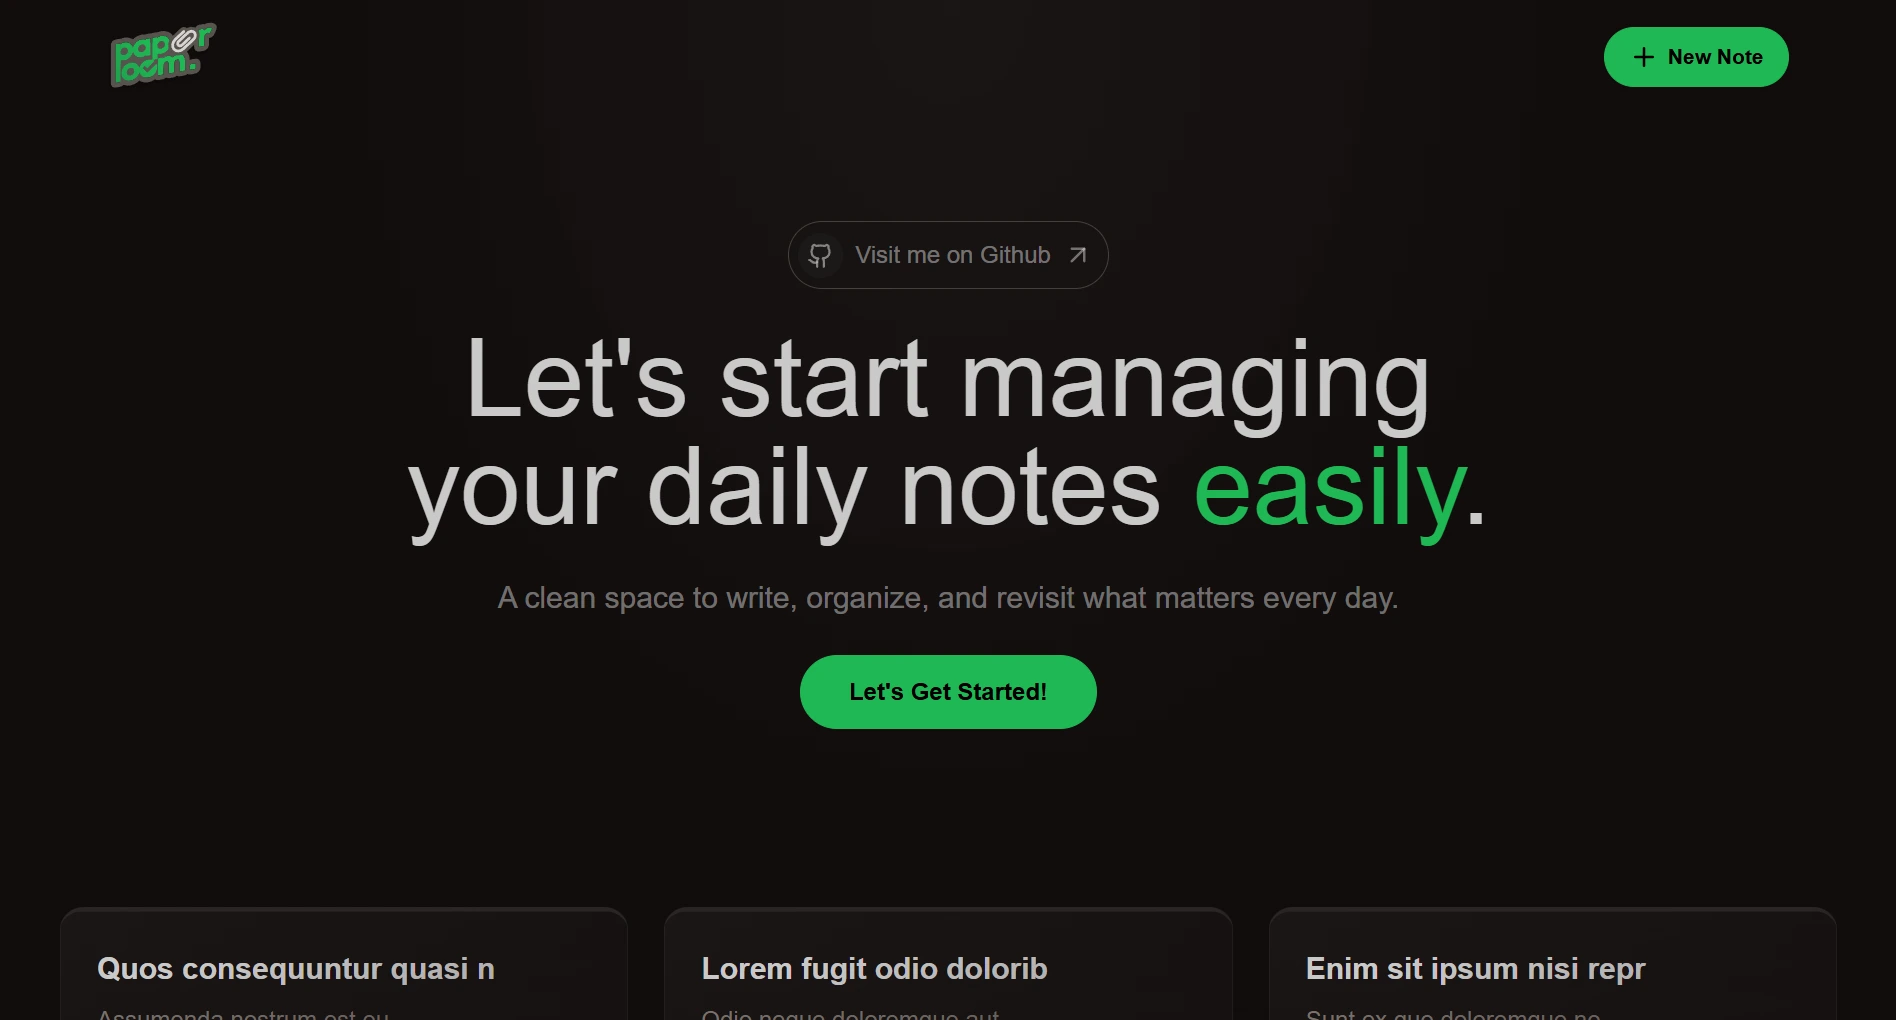
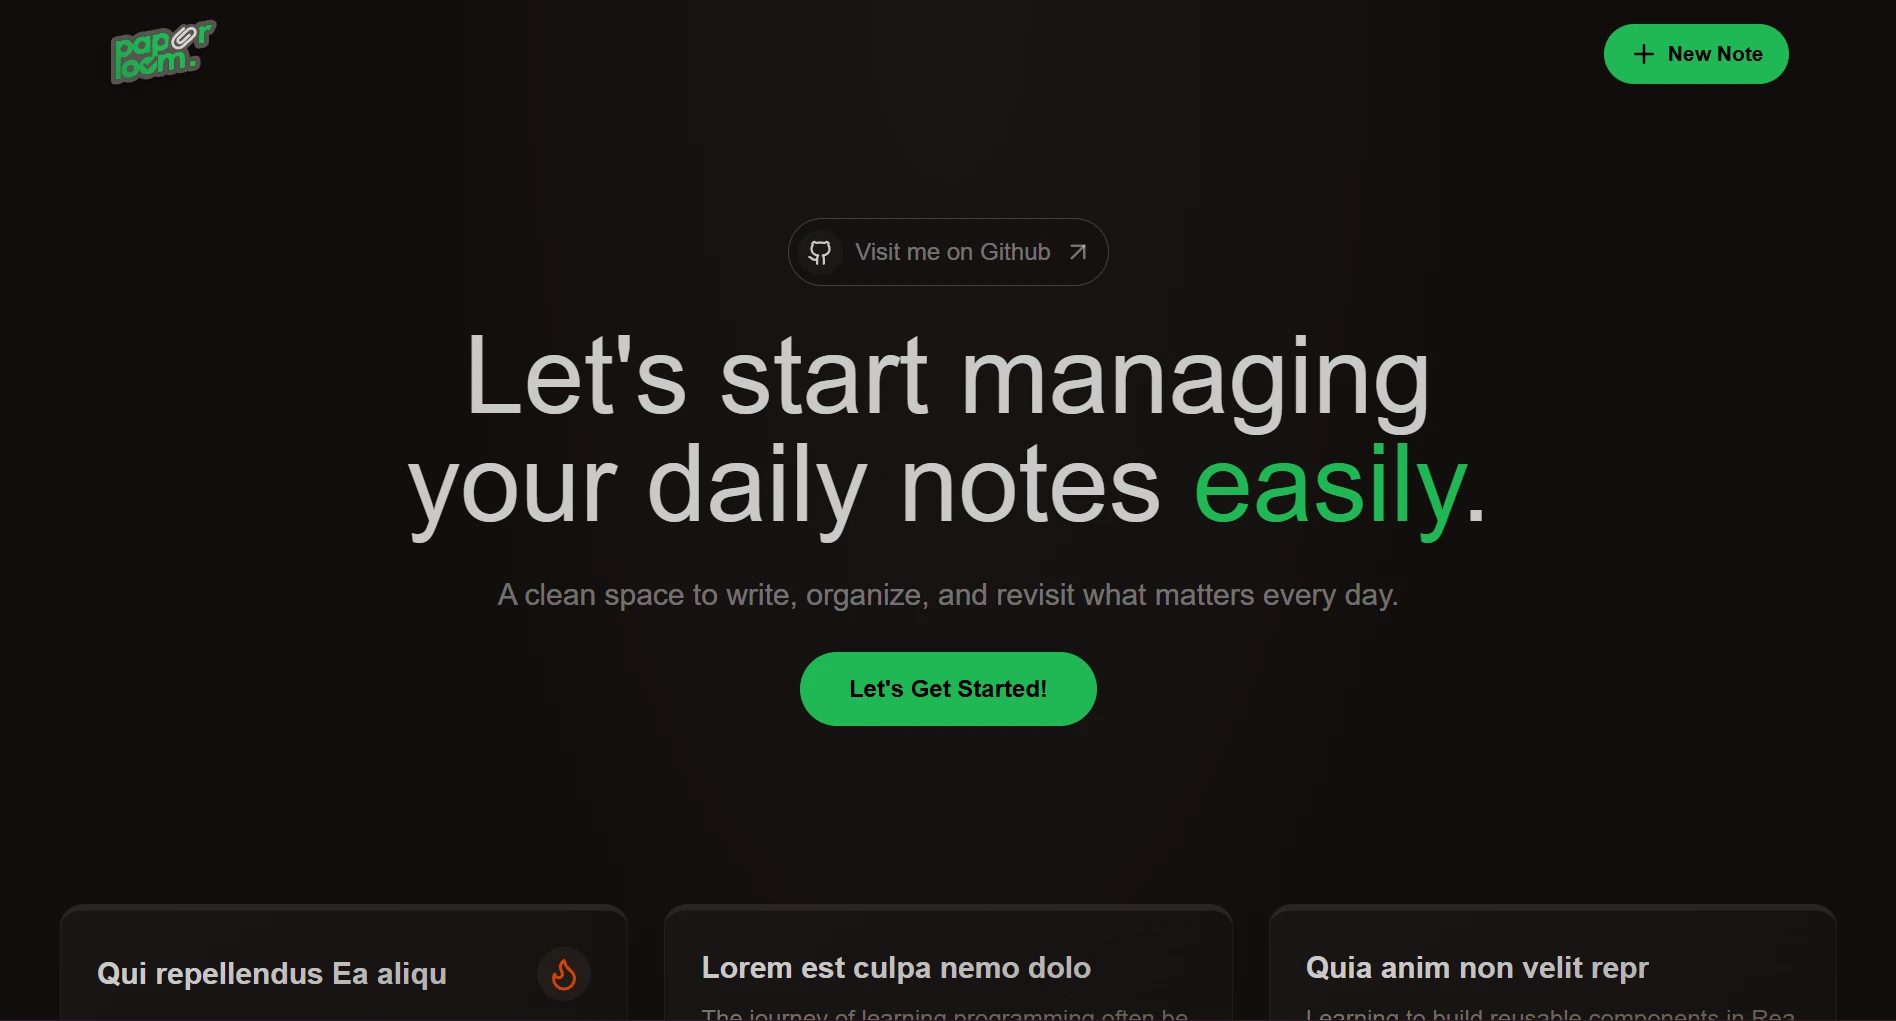
feat: add detail note page with the functions.
docs: update preview image

diff --git a/frontend/src/pages/NoteDetailPage.jsx b/frontend/src/pages/NoteDetailPage.jsx
@@ -1,20 +1,144 @@
-import { useState } from "react"
+import { useEffect, useState } from "react"
 import { useNavigate, useParams } from "react-router";
+import { LoaderIcon, ArrowLeftIcon, TrashIcon } from "lucide-react";
+import toast from "react-hot-toast";  
+
+import api from '@/lib/axios';
+import Navbar from "@/components/Navbar";
+import Button from "@/components/Button";
+import Label from "@/components/Label";
+import Input from "@/components/Input";
+import TextArea from "@/components/TextArea";
 
 const NoteDetailPage = () => {
-  const [note, setNote] = useState();
+  const [note, setNote] = useState(null);
   const [loading, setLoading] = useState(true);
   const [saving, setSaving] = useState(false);
 
   const navigate = useNavigate();
 
-  const { id } = useParams();
+  const { id } = useParams(); // Get the "id" value from the fileURLToPath
 
-  console.log("This is the id", id)
+  useEffect(() => {
+    const getNote = async () => {
+      try {
+        const res = await api.get(`/notes/${id}`);
+        setNote(res.data);
+      } catch (error) {
+        toast.error("Failed to get note")
+      } finally {
+        setLoading(false);
+      }
+    }
+
+    getNote();
+  }, [id]); // Whenever the id changes, this will be updated
+
+  if (loading) return <div className="min-h-screen bg-base-200 flex items-center justify-center">
+    <LoaderIcon className="animate-spin size-10" />
+  </div>
+
+  const handleDelete = async (e, id) => {
+    e.preventDefault();
+
+    if (!window.confirm("Are you sure you want to delete this note?")) return; // cancel delete
+
+    // accepted delete
+    try {
+      await api.delete(`/notes/${id}`);
+      toast.success("Your note has been deleted!");
+    } catch (error) {
+      console.log("Error in handleDelete", error);
+      toast.error("Failed to deleted note");
+    }
+  }
+
+  const handleSave = async (e) => {
+    e.preventDefault();
+
+    if (!note.title.trim() || !note.content.trim()) {
+      toast.error("Please add a tittle or content");
+      return;
+    }
+
+    setSaving(true);
+
+    try {
+      await api.put(`/notes/${id}`, note);
+      toast.success("Note updated successfully!");
+      navigate("/");
+    } catch (error) {
+      toast.error("Failed to update note");
+    } finally {
+      setSaving(false);
+    }
+  };
+
   return (
-    <>
-      Note Detail Page
-    </>
+    <main className="min-h-screen bg-base-200">
+      <Navbar />
+
+      <div className="container mx-auto px-4 py-8">
+
+        <div className="max-w-2xl mx-auto">
+
+          {/* card head */}
+          <div className="card-head flex justify-between">
+            <Button isLink isPrimary={false} className="btn-ghost mb-4">
+              <ArrowLeftIcon className="size-5" />
+              Back to Notes
+            </Button>
+            <Button isPrimary={false} onClick={(e) => handleDelete(e, note._id)} className=" font-normal text-error px-3 py-4.5 hover:bg-red-600/15 border-[1.9px] border-red-900/40 hover:border-red-600 active:bg-red-500/30">
+              <TrashIcon className="size-4.5" />
+              Delete Note
+            </Button>
+          </div>
+
+          <div className="card bg-base-100">
+            <div className="card-body">
+              <h2 className="card-title text-2xl mb-4">Note Details</h2>
+              <form onSubmit={handleSave} className="flex flex-col gap-6">
+
+                {/* title note input */}
+                <div className="form-control flex flex-col gap-4">
+                  <Label htmlFor="title-input">Title</Label>
+                  <Input type="text"
+                    id="title-input"
+                    placeholder="Note Title"
+                    className="input input-bordered w-full p-5"
+                    value={note.title}
+                    onChange={(e) => setNote({...note, title:e.target.value})}
+                  />
+                </div>
+
+                {/* content note input */}
+                <div className="form-control flex flex-col gap-4">
+                  <Label htmlFor="content-input">Content</Label>
+                  <TextArea
+                    id="content-input"
+                    placeholder="Write your note here..."
+                    value={note.content}
+                    onChange={(e) => setNote({...note, content:e.target.value})}
+                  />
+                </div>
+
+                {/* button */}
+                <div className="card-actions justify-end">
+                  <Button type="submit" disabled={saving}>
+                    {!saving ? "Save Changes" :
+                      <span>
+                        <span className="loading loading-spinner loading-xs mr-2"></span>
+                        Saving...
+                      </span>
+                    }
+                  </Button>
+                </div>
+              </form>
+            </div>
+          </div>
+        </div>
+      </div>
+    </main>
   )
 }
 

diff --git a/frontend/src/components/NoteCard.jsx b/frontend/src/components/NoteCard.jsx
@@ -1,5 +1,6 @@
+import { useState } from 'react';
 import { Link } from 'react-router';
-import { PenSquareIcon, TrashIcon, Clock } from 'lucide-react';
+import { Flame, PenSquareIcon, TrashIcon, Clock } from 'lucide-react';
 import toast from 'react-hot-toast';
 
 import api from "@/lib/axios";
@@ -26,13 +27,18 @@ const NoteCard = ({ note, setNotes }) => {
     }
     return (
         //? i just found cool tricks to manipulate animation using 'Named Groups' / 'Arbitrary Group Names' e.g. group/outer and group/inner
-        <Link to={`/note/${note._id}`} className='card group/inner relative bg-gradient-to-br from-base-100 to-base-300 hover:shadow-lg transition-all duration-200 border-t-3 border-stone-800 rounded-2xl overflow-hidden hover:border-primary hover:scale-102 group-hover/outer:opacity-50 hover:opacity-100 before:absolute before:bottom-0 before:left-1/2 before:-translate-x-1/2 before:w-0 before:h-[0.2rem] before:rounded-full before:bg-primary before:transition-all before:duration-150 hover:before:w-14 after:absolute after:inset-0 after:bg-radial-[at_100%_120%] after:from-stone-900/80 after:to-stone-900/0 after:to-80% after:opacity-70 hover:after:from-stone-700 after:transition-colors after:duration-200'>
+        <Link to={`/note/${note._id}`} className='card group/inner relative bg-gradient-to-br from-base-100 to-base-300 hover:shadow-lg transition-all duration-200 border-t-4 border-stone-800 rounded-2xl overflow-hidden hover:border-primary first:hover:border-orange-700    00 hover:scale-102 group-hover/outer:opacity-50 hover:opacity-100 before:absolute before:bottom-0 before:left-1/2 before:-translate-x-1/2 before:w-0 before:h-[0.2rem] before:rounded-full before:bg-primary first:hover:before:bg-orange-700 00 before:transition-all before:duration-150 hover:before:w-14 active:scale-100 after:absolute after:inset-0 after:bg-radial-[at_100%_120%] after:from-stone-900/80 after:to-stone-900/0 after:to-80% after:opacity-70 hover:after:from-stone-700 after:transition-colors after:duration-200'>
 
             <div className="card-body border border-stone-800/60">
-                <h3 className='card-title text-base-content text-xl'>{note.title}</h3>
-                <p className='text-stone-500 text-base line-clamp-3'>{note.content}</p>
+                <div className='flex justify-between items-center gap-2'>
+                    <h3 className='card-title text-base-content text-xl line-clamp-1'>{note.title}</h3>
+                    <span className='hidden group-first/inner:inline p-1.5 rounded-full bg-orange-200/6 text-orange-600'><Flame/></span>
+                </div>
+                <span className='h-fit overflow-hidden'>
+                    <p className='text-stone-500 text-base line-clamp-2 break-all'>{note.content}</p>
+                </span>
 
-                <div className='card-actions justify-between items-center mt-6 z-10'>
+                <div className='card-actions justify-between items-center group-first:mt-2 mt-6 z-10'>
                     <span className='card-date text-sm text-base-content/15 group-hover/inner:text-base-content/90 duration-200'>
                         <Clock className='inline size-3.5 mr-1.5 -mt-0.5' />
                         {formatDate(new Date(note.createdAt))}
@@ -44,7 +50,7 @@ const NoteCard = ({ note, setNotes }) => {
                             </Button>
                         </span>
                         <span className='lg:tooltip' data-tip="Delete">
-                            <Button isPrimary={false} onClick={(e) => handleDelete(e, note._id)} className='delete-btn btn-ghost btn-xs text-error px-2.5 py-4.5 hover:bg-red-600/15 hover:border hover:border-red-500 active:bg-red-500/30'>
+                            <Button isPrimary={false} onClick={(e) => handleDelete(e, note._id)} className='delete-btn btn-ghost btn-xs text-error px-2.5 py-4.5 hover:bg-red-600/15 hover:border hover:border-red-600 active:bg-red-500/30'>
                                 <TrashIcon className="size-4" />
                             </Button>
                         </span>

diff --git a/frontend/src/components/Navbar.jsx b/frontend/src/components/Navbar.jsx
@@ -4,7 +4,7 @@ import { PlusIcon } from "lucide-react";
 import logo from "/paperloom-logo.svg";
 import Button from "./Button";
 
-const Navbar = () => {
+const Navbar = ({ children = null }) => {
   const location = useLocation();
 
   return (
@@ -12,7 +12,7 @@ const Navbar = () => {
       <div className="mx-auto max-w-6xl p-4">
         <div className="flex items-center justify-between">
           <Link to={"/"} >
-            <img src={logo} alt="logo paperloom image" className="w-14 md:w-18" title="Logo"/>
+            <img src={logo} alt="logo paperloom image" className="w-14 md:w-18" title="Logo" />
           </Link>
 
           {/* only show button in homepage */}
@@ -23,7 +23,7 @@ const Navbar = () => {
                 <span>New Note</span>
               </Button>
             </div>
-          ) : null}
+          ) : children}
         </div>
       </div>
     </header>
